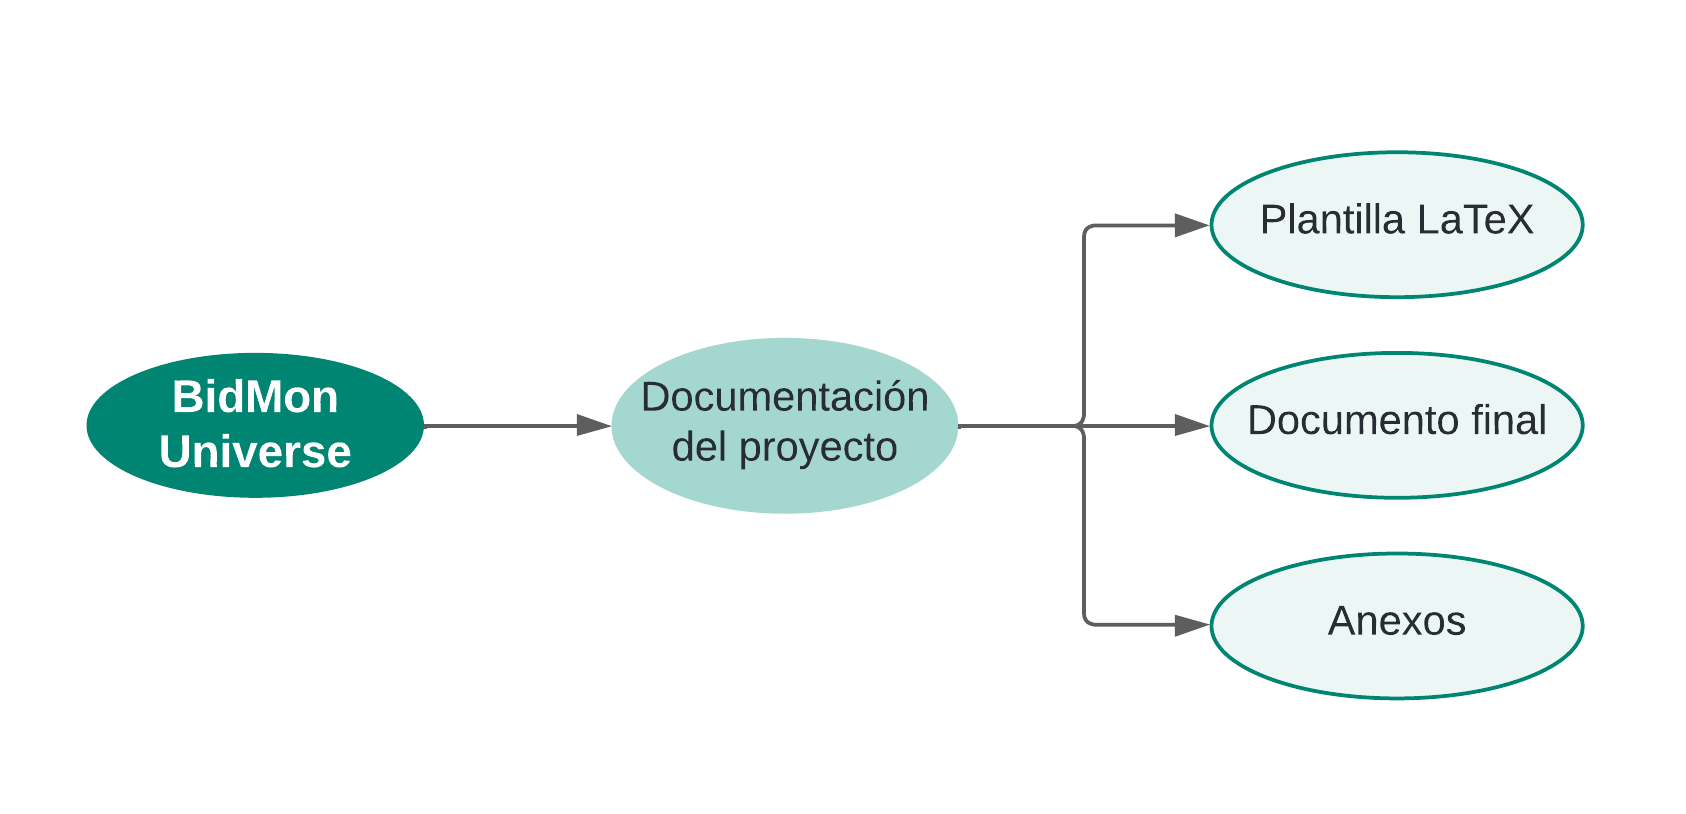
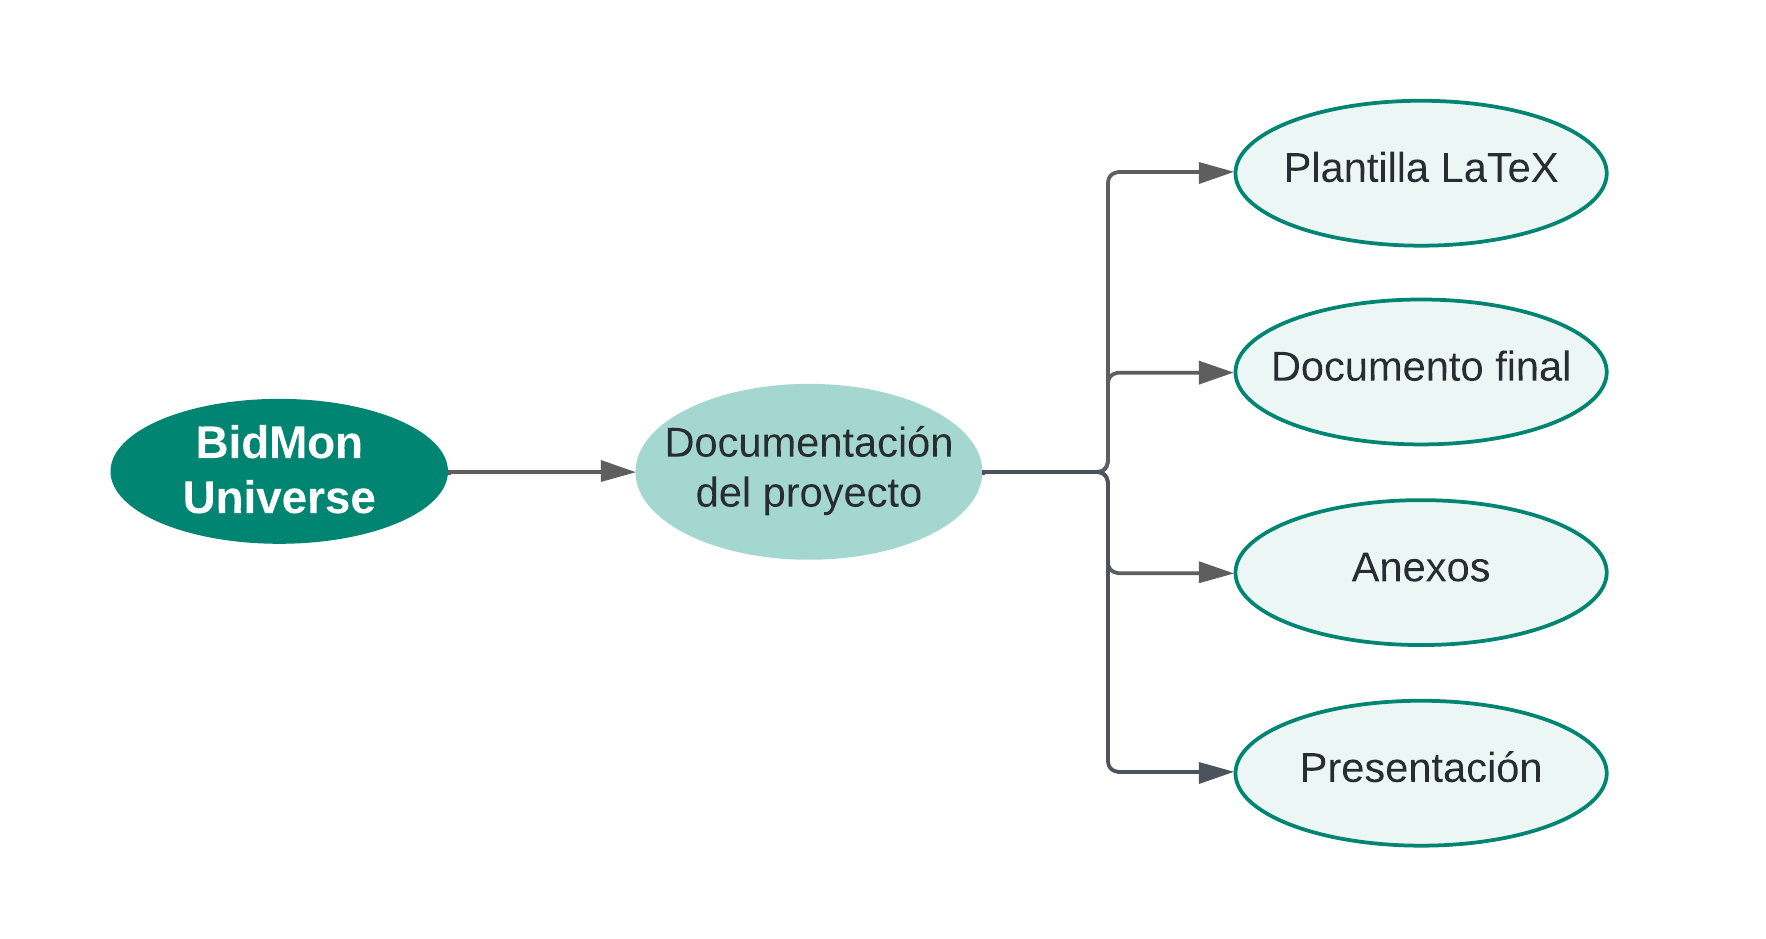
WBS

diff --git a/5-Planificacion-Gestion-TFG/5-WBS.tex b/5-Planificacion-Gestion-TFG/5-WBS.tex
@@ -1,10 +1,88 @@
 \subsubsection{WBS}
 En esta sección se detalla la estructura de desglose del trabajo del proyecto también conocida como WBS, \textit{Work Breakdown Structure}. 
-Se detallan las tareas necesarias en forma de árbol jerárquico, donde cada rama representa una tarea y sus subramas las tareas que la componen. 
+En ella se especifican las tareas necesarias para obtener los productos detallados en \coloredUnderline{\hyperlink{sec:5-PBS}{\ref*{sec:5-PBS} \nameref*{sec:5-PBS}}}.
+
+Estas tareas se representan en forma de árbol jerárquico, donde cada rama representa una tarea y sus subramas las tareas que la componen.
+El diagrama se ha dividido en las fases en las que se divide el proyecto para mejorar la legibilidad, facilitando la comprensión de las tareas y sub-tareas que se deben realizar en cada una de ellas.
+
+\subsubsubsection{WBS. Visión general}
+En la \coloredUnderline{\hyperlink{fig:5_WBS-Vision-General}{Figura \ref*{fig:5_WBS-Vision-General}: \nameref*{fig:5_WBS-Vision-General}}} se muestra la estructura de desglose del trabajo del proyecto de alto nivel, es decir, 
+las tareas generales o fases que se deben realizar para cumplir con los objetivos del proyecto.
+En las siguientes secciones, se entrará en detalle en cada una de las tareas.
 \begin{figure}[H]
-    \hypertarget{fig:WBS}{}
+    \hypertarget{fig:5_WBS-Vision-General}{}
     \centering
-    \includegraphics[width=0.5\linewidth]{figures/5_WBS.png}
-    \caption{WBS del proyecto BidMon Universe}
-    \label{fig:WBS}
+    \includegraphics[width=0.5\linewidth]{figures/5-WBS/5_WBS-Vision-General.png}
+    \caption{WBS. Visión general}
+    \label{fig:5_WBS-Vision-General}
+\end{figure}
+
+\subsubsubsection{WBS. Análisis del proyecto}
+En la \coloredUnderline{\hyperlink{fig:5_WBS-Analisis}{Figura \ref*{fig:5_WBS-Analisis}: \nameref*{fig:5_WBS-Analisis}}}, se detallan las tareas que se deben realizar en la fase de análisis del sistema para cumplir con los objetivos del proyecto.
+\begin{figure}[H]
+    \hypertarget{fig:5_WBS-Analisis}{}
+    \centering
+    \includegraphics[width=0.7\linewidth]{figures/5-WBS/5_WBS-Analisis.png}
+    \caption{WBS. Análisis del proyecto}
+    \label{fig:5_WBS-Analisis}
+\end{figure}
+
+\subsubsubsection{WBS. Seguimiento del sistema}
+En esta fase se realizan las tareas de seguimiento del proyecto, a través de distintas reuniones en las que se recopilará infomarción sobre el avance del proyecto. 
+\begin{figure}[H]
+    \hypertarget{fig:5_WBS-Seguimiento}{}
+    \centering
+    \includegraphics[width=0.7\linewidth]{figures/5-WBS/5_WBS-Seguimiento.png}
+    \caption{WBS. Seguimiento del sistema}
+    \label{fig:5_WBS-Seguimiento}
+\end{figure}
+
+\subsubsubsection{WBS. Diseño del sistema}
+En la \coloredUnderline{\hyperlink{fig:5_WBS-Diseno}{Figura \ref*{fig:5_WBS-Diseno}: \nameref*{fig:5_WBS-Diseno}}}, se detallan las tareas que se deben realizar en la fase de diseño del sistema.
+\begin{figure}[H]
+    \hypertarget{fig:5_WBS-Diseno}{}
+    \centering
+    \includegraphics[width=0.9\linewidth]{figures/5-WBS/5_WBS-Diseno.png}
+    \caption{WBS. Diseño del sistema}
+    \label{fig:5_WBS-Diseno}
+\end{figure}
+
+\subsubsubsection{WBS. Implementación del sistema}
+En la \coloredUnderline{\hyperlink{fig:5_WBS-Implementacion}{Figura \ref*{fig:5_WBS-Implementacion}: \nameref*{fig:5_WBS-Implementacion}}}, se detallan las tareas que se deben realizar en la fase de implementación del sistema.
+\begin{figure}[H]
+    \hypertarget{fig:5_WBS-Implementacion}{}
+    \centering
+    \includegraphics[width=0.9\linewidth]{figures/5-WBS/5_WBS-Implementacion.png}
+    \caption{WBS. Implementación del sistema}
+    \label{fig:5_WBS-Implementacion}
+\end{figure}
+
+\subsubsubsection{WBS. Fase de pruebas}
+En la fase de pruebas del sistema se realizan las tareas necesarias para comprobar que el sistema cumple con los requisitos establecidos, recogiendo los informes especificados en \coloredUnderline{\hyperlink{fig:5_PBS-Pruebas}{Figura \ref*{fig:5_PBS-Pruebas}: \nameref*{fig:5_PBS-Pruebas}}}.
+\begin{figure}[H]
+    \hypertarget{fig:5_WBS-Pruebas}{}
+    \centering
+    \includegraphics[width=0.9\linewidth]{figures/5-WBS/5_WBS-Pruebas.png}
+    \caption{WBS. Fase de pruebas}
+    \label{fig:5_WBS-Pruebas}
+\end{figure}
+
+\subsubsubsection{WBS. Despliegue del sistema}
+En la fase de despliegue del sistema se realizan las tareas necesarias para poner en producción el sistema, como se detalla en la \coloredUnderline{\hyperlink{fig:5_WBS-Despliegue}{Figura \ref*{fig:5_WBS-Despliegue}: \nameref*{fig:5_WBS-Despliegue}}}.
+\begin{figure}[H]
+    \hypertarget{fig:5_WBS-Despliegue}{}
+    \centering
+    \includegraphics[width=0.9\linewidth]{figures/5-WBS/5_WBS-Despliegue2.png}
+    \caption{WBS. Despliegue del sistema}
+    \label{fig:5_WBS-Despliegue}
+\end{figure}
+
+\subsubsubsection{WBS. Documentación}
+En la fase de documentación se realizan las tareas necesarias para la redacción de la memoria del proyecto, así como la preparación de la presentación del mismo.
+\begin{figure}[H]
+    \hypertarget{fig:5_WBS-Documentacion}{}
+    \centering
+    \includegraphics[width=0.9\linewidth]{figures/5-WBS/5_WBS-Documentacion.png}
+    \caption{WBS. Documentación}
+    \label{fig:5_WBS-Documentacion}
 \end{figure}

diff --git a/5-Planificacion-Gestion-TFG/5-PBS.tex b/5-Planificacion-Gestion-TFG/5-PBS.tex
@@ -58,11 +58,11 @@ En la \coloredUnderline{\hyperlink{fig:5_PBS-Implementación-Sistema}{Figura \re
 \subsubsection{PBS. Pruebas del sistema}
 En la fase de pruebas del sistema se obtienen como productos los resultados de la ejecución de dichas pruebas.
 \begin{figure}[H]
-    \hypertarget{fig:5_PBS-Pruebas-Sistema}{}
+    \hypertarget{fig:5_PBS-Pruebas}{}
     \centering
     \includegraphics[width=0.7\linewidth]{figures/5-PBS/5_PBS-Pruebas.png}
     \caption{PBS. Pruebas del sistema}
-    \label{fig:5_PBS-Pruebas-Sistema}
+    \label{fig:5_PBS-Pruebas}
 \end{figure}
 
 \subsubsection{PBS. Despliegue del sistema}
@@ -81,7 +81,7 @@ En la fase de documentación del sistema se obtienen como productos los document
 \begin{figure}[H]
     \hypertarget{fig:5_PBS-Documentación-Sistema}{}
     \centering
-    \includegraphics[width=0.7\linewidth]{figures/5-PBS/5_PBS-Documento.png}
+    \includegraphics[width=0.7\linewidth]{figures/5-PBS/5_PBS-Documentacion.png}
     \caption{PBS. Documentación del sistema}
     \label{fig:5_PBS-Documentación-Sistema}
 \end{figure}

diff --git a/5-Planificacion-Gestion-TFG.tex b/5-Planificacion-Gestion-TFG.tex
@@ -16,9 +16,11 @@ El OBS, \textit{Organizational Breakdown Structure} es una estructura que repres
 Por otro lado, el PBS (Product Breakdown Structure) es una estructura jerárquica que descompone el proyecto en los productos que se deben entregar para cumplir con los objetivos del proyecto.
 
 \subsubsection{OBS}
+\hypertarget{sec:5-OBS}{}
 \input{5-Planificacion-Gestion-TFG/5-OBS}
 
 \subsubsection{PBS}
+\hypertarget{sec:5-PBS}{}
 \input{5-Planificacion-Gestion-TFG/5-PBS}
 
 \subsection{Planificación Inicial. WBS}
